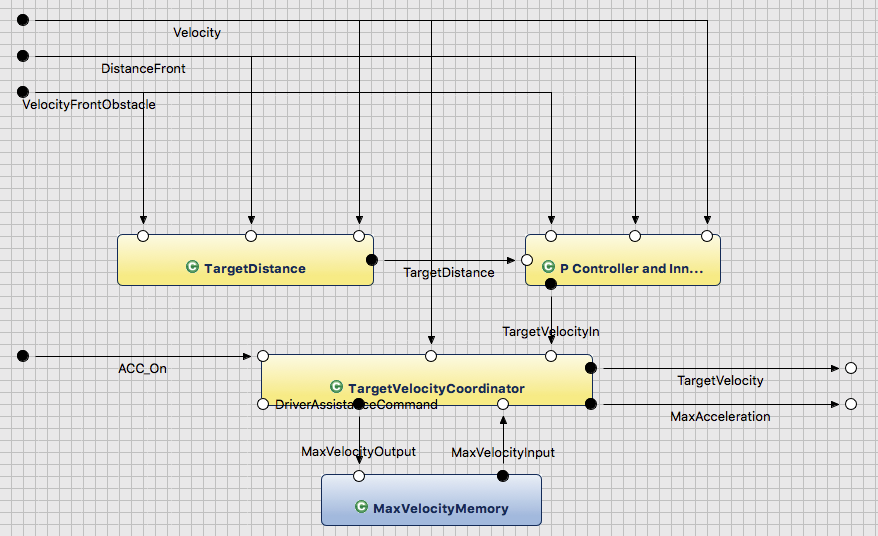
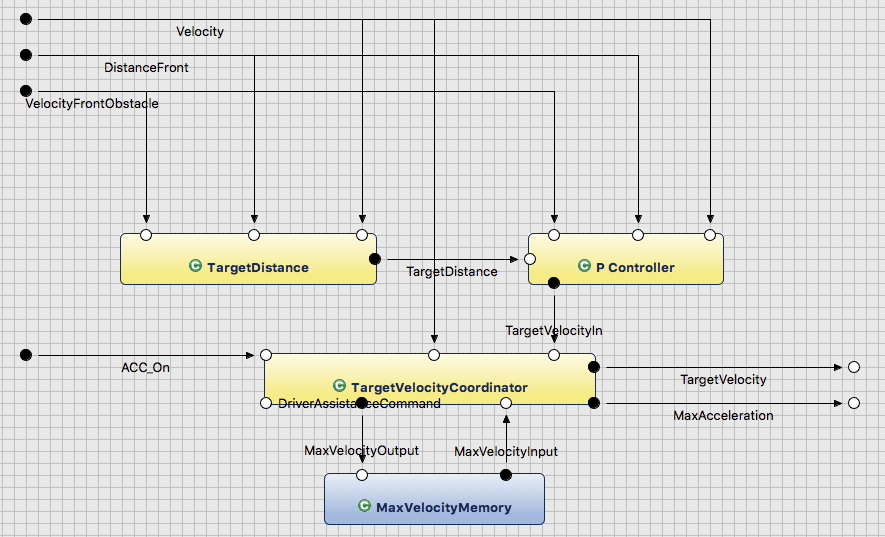
more text on controller

Changed region(s): [[0.0, 0.0, 1.0, 1.0]]

diff --git a/text/reduced_model.tex b/text/reduced_model.tex
@@ -1,7 +1,28 @@
 \section{Controlling the Virtual Rover}
 
 In \fig\ref{fig:acc_model} we depict the top-level model of the controller for
-follower vehicle.
+follower vehicle. The controller is meant to function in a loop by reading the
+\emph{Velocity} of the follower rover itself, the velocity of the leader rover
+(input by the \emph{VelocityFrontObstacle} signal) and the \emph{distance} to
+the leader rover. By using these values it constantly updates the maximal
+allowed acceleration (\emph{MaxAcceleration}) as well as
+the target velocity (\emph{TargetVelocity}) for the follower rover.
+
+The controller is composed by a number of \af components, as follows:
+\begin{itemize}
+  \item the \emph{TargetDistance} component is responsible for calculating the ideal
+distance to the leader rover. This distance is proportional to the speed of
+the leader, as larger speeds imply larger distances for breaking. 
+  \item The \emph{P Controller} component is a PID controller for adjusting the
+the velocity of the follower in order to reach the target distance to the
+leader.
+\item The \emph{TargetVelocityController} component decides whether the
+\emph{TargetVelocity} output should remain the same as in the previous step
+(saved in the \emph{MaxVelocityMemory}) or should be updated to the
+\emph{TargetVelocityIn} calculated by the \emph{P Controller} component.
+\levi{don't understand this part of the model}
+\end{itemize}
+
 
 \begin{figure}[!h]
 \centering

diff --git a/MDETools.tex b/MDETools.tex
@@ -58,7 +58,6 @@
 \newcommand{\fig}{\text{Figure}\xspace}
 \newcommand{\sect}{\text{section}\xspace} 
 \newcommand{\tab}{\text{table}\xspace}
-\newcommand{\question}{\text{question}\xspace} 
 \newcommand{\eg}{\text{e.g.}\xspace} 
 
 
@@ -70,7 +69,7 @@
 % \renewcommand\UrlFont{\color{blue}\rmfamily}
 
 \begin{document}
-%
+% 
 \title{Controlling a Virtual Rover using AutoFOCUS3}
 %
 %\titlerunning{Abbreviated paper title}
